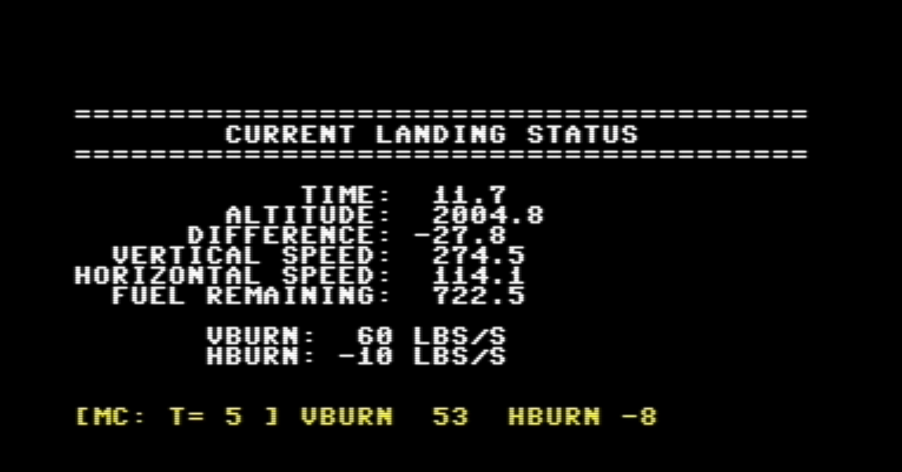
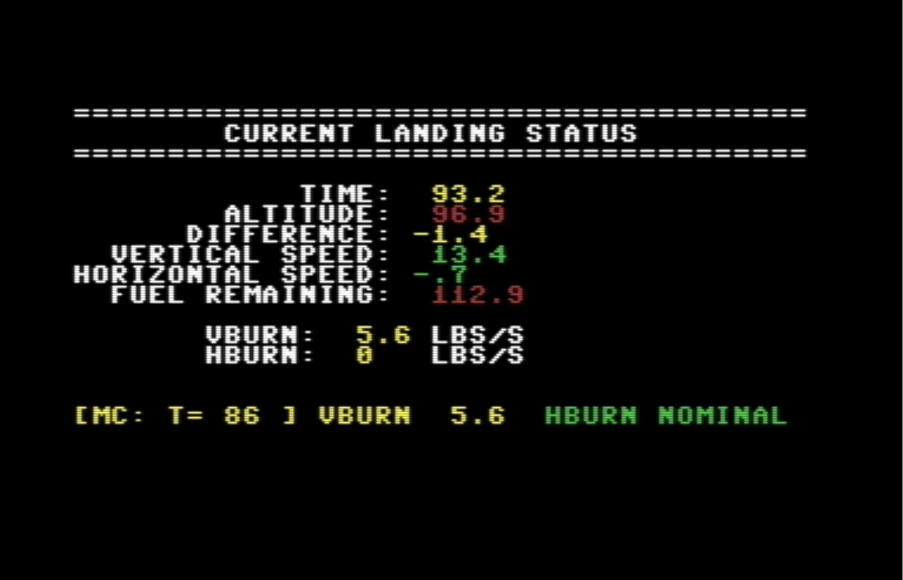
Updates to v1.5
Corrected README.md and updated image for README.md

diff --git a/commodore64/README.md b/commodore64/README.md
@@ -148,11 +148,18 @@ Land safely with both vertical and horizontal speeds ≤ 5 ft/s for a perfect la
 
 ### Real-Time Joystick Version Controls
 
-- **UP**: Decrease vertical thrust (1 lb/s normal, 5 lb/s when thrust >30 lb/s)
-- **DOWN**: Increase vertical thrust (1 lb/s normal, 10 lb/s when speed ≥400 ft/s)
-- **LEFT**: Thrust left to reduce rightward velocity
-- **RIGHT**: Thrust right to reduce leftward velocity
+- **UP**: Decrease vertical thrust (1lb/s normal, 5lb/s when thrust >30lb/s, .1lbs/s when thrust <10lbs/s)
+- **DOWN**: Increase vertical thrust (1lb/s normal, 10lb/s when speed ≥400 ft/s, .1lbs/s when thrust <10lbs/s)
+- **LEFT**: Thrust left to reduce rightward velocity (Standard 1lbs/s increment)
+- **RIGHT**: Thrust right to reduce leftward velocity (Standard 1lbs/s increment)
 - **FIRE BUTTON**: Abort to orbit (hold for 0.3 seconds)
+
+**Thrust based on Conditions**:
+- When thrust is zero, jump to 10lbs/s initial valye
+- When displayed thrust <10lbs/s, use .1lbs/s increments/decrements for fine control
+- Standard 1lb/s increment, and emergency 10lbs/s if vertical velocity >=400ft/s
+- When displayed thrust >=30lbs/s, use 5lbs/s decrements
+- Standard 1lb/s increment/decrement rate 
 
 ### Strategy Tips
 
@@ -174,6 +181,14 @@ Land safely with both vertical and horizontal speeds ≤ 5 ft/s for a perfect la
 - **YELLOW**: Normal/Caution - default color
 - **GREEN**: Optimal/Safe - target conditions
 - **RED**: Danger/Critical - requires immediate attention
+
+**Color Conditions**:
+- **Altitude**: RED if $>7500$ft (ascending) or $≤100ft$ (landing imminent), GREEN if 100.1-750ft (approach zone), YELLOW otherwise
+- **Difference**: RED if $≥0$ (ascending), GREEN if -1 to -0.5 (optimal 5-10 ft/s descent), YELLOW otherwise  
+- **Vertical Speed**: RED if $<0$ (ascending) or $>200$ft/s (dangerous descent), GREEN if $vd≤15$ ft/s (safe landing speed), YELLOW if hovering (`vd=0`) or moderate descent
+- **Horizontal Speed**: GREEN if $|hs|≤5$ft/s (safe drift), RED if $|hs|>50$ft/s (dangerous lateral motion), YELLOW otherwise
+- **Fuel**: RED if $≤200$lbs (critically low), YELLOW otherwise
+
 
 ### Landing Results (Both Versions)
 
